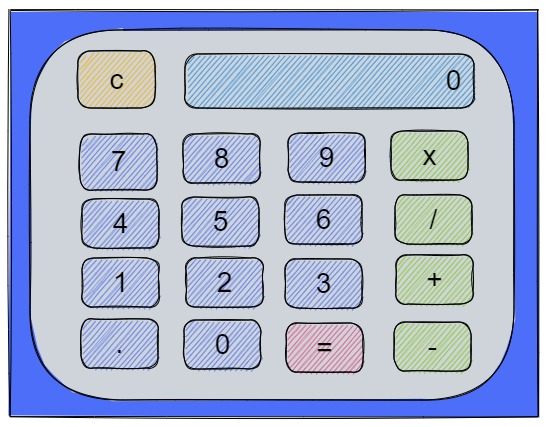
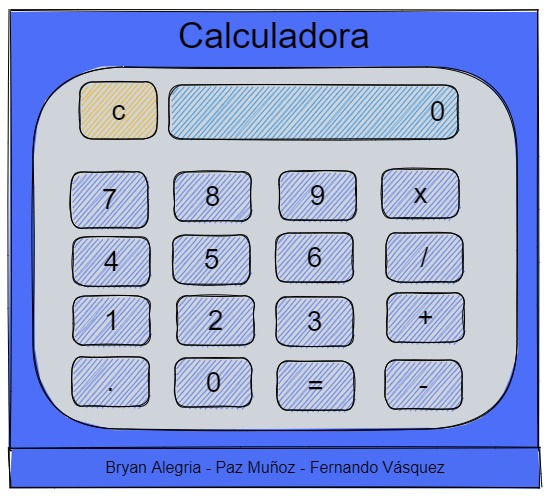
final

diff --git a/Taller 1/index.html b/Taller 1/index.html
@@ -13,31 +13,35 @@
 </header>
 
 <body>
-    <input type="submit" id="C" value="C">
-    <input type="text" name="result" id="result" readonly>
-    <div class="grid-container">
-        <div>
-            <input class="grid-item" type="submit" id="7" value="7">
+    <div class="gigante">
+        <div class="container">
+            <div class="main-grid-container">
+                <input class="grid-item" type="submit" id="C" value="C">
+                <input class="grid-item" type="text" name="result" id="result" readonly>
+            </div>
+            <div class="grid-container">
+                <input class="grid-item" type="submit" id="7" value="7">
+                <input class="grid-item" type="submit" id="8" value="8">
+                <input class="grid-item" type="submit" id="9" value="9">
+                <input class="grid-item" type="submit" id="X" value="X">
+
+                <input class="grid-item" type="submit" id="4" value="4">
+                <input class="grid-item" type="submit" id="5" value="5">
+                <input class="grid-item" type="submit" id="6" value="6">
+                <input class="grid-item" type="submit" id="/" value="/">
+
+                <input class="grid-item" type="submit" id="1" value="1">
+                <input class="grid-item" type="submit" id="2" value="2">
+                <input class="grid-item" type="submit" id="3" value="3">
+                <input class="grid-item" type="submit" id="+" value="+">
+
+
+                <input class="grid-item" type="submit" id="." value=".">
+                <input class="grid-item" type="submit" id="0" value="0">
+                <input class="grid-item" type="submit" id="=" value="=">
+                <input class="grid-item" type="submit" id="-" value="-">
+            </div>
         </div>
-        <input class="grid-item" type="submit" id="8" value="8">
-        <input class="grid-item" type="submit" id="9" value="9">
-        <input class="grid-item" type="submit" id="X" value="X">
-
-        <input class="grid-item" type="submit" id="4" value="4">
-        <input class="grid-item" type="submit" id="5" value="5">
-        <input class="grid-item" type="submit" id="6" value="6">
-        <input class="grid-item" type="submit" id="/" value="/">
-
-        <input class="grid-item" type="submit" id="1" value="1">
-        <input class="grid-item" type="submit" id="2" value="2">
-        <input class="grid-item" type="submit" id="3" value="3">
-        <input class="grid-item" type="submit" id="+" value="+">
-
-
-        <input class="grid-item" type="submit" id="." value=".">
-        <input class="grid-item" type="submit" id="0" value="0">
-        <input class="grid-item" type="submit" id="=" value="=">
-        <input class="grid-item" type="submit" id="-" value="-">
     </div>
 </body>
 <footer>

diff --git a/Taller 1/style.css b/Taller 1/style.css
@@ -2,30 +2,60 @@ body {
     background-color: blue;
 }
 
-header{
+header {
     text-align: center;
 }
 
-footer{
+footer {
     text-align: center;
     border: 1px black solid;
+    margin-top: 5%;
+}
+
+.gigante{
+    border-radius: 50px;
+    border: 1px solid black;
+    background-color: gray;
+    width: 60%;
+    margin-left: auto;
+    margin-right: auto;
+
 }
 
 .grid-container {
     display: grid;
-    grid-template-columns: 20% 20% 20% 20%;
-    background-color: gray;
+    grid-template-columns: 25% 25% 25% 25%;
     padding: 10px;
-    margin-left: auto;
-    margin-right: auto;
     width: auto;
-  }
+}
 
-  .grid-item {
+.container {
+    margin: 3%;
+}
+
+.main-grid-container {
+    display: grid;
+    grid-template-columns: 25% 75%;
+    padding: 10px;
+    width: auto;
+}
+
+#C {
+    background-color: rgb(220, 187, 124);
+}
+
+
+.grid-item {
     background-color: #2196F3;
     border: 1px solid rgba(0, 0, 0, 0.8);
     border-radius: 10px;
     padding: 20px;
+    margin: 1%;
     font-size: 30px;
     text-align: center;
-  }
+}
+
+.grid-item:hover {
+    background-color: #ccd8e1;
+    transition: 50ms;
+}
